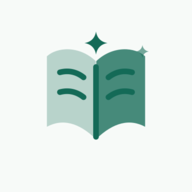
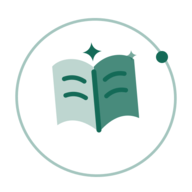
fix(frontend): use transparent PWA emblem

diff --git a/frontend/e2e/pwa.spec.ts b/frontend/e2e/pwa.spec.ts
@@ -13,6 +13,18 @@ test('production workspace installs an offline shell without caching API data', 
   const manifest = await manifestResponse.json();
   expect(manifest).toMatchObject({ id: '/', start_url: '/', scope: '/', display: 'standalone' });
   for (const icon of manifest.icons) expect((await request.get(icon.src)).ok()).toBe(true);
+  const transparentCorners = await page.evaluate(async () => {
+    const response = await fetch('/brand/icon-512.png');
+    const bitmap = await createImageBitmap(await response.blob());
+    const canvas = document.createElement('canvas');
+    canvas.width = bitmap.width;
+    canvas.height = bitmap.height;
+    const context = canvas.getContext('2d')!;
+    context.drawImage(bitmap, 0, 0);
+    return [context.getImageData(0, 0, 1, 1).data[3],
+      context.getImageData(bitmap.width - 1, 0, 1, 1).data[3]];
+  });
+  expect(transparentCorners).toEqual([0, 0]);
 
   await page.evaluate(() => navigator.serviceWorker.ready);
   await page.reload();
